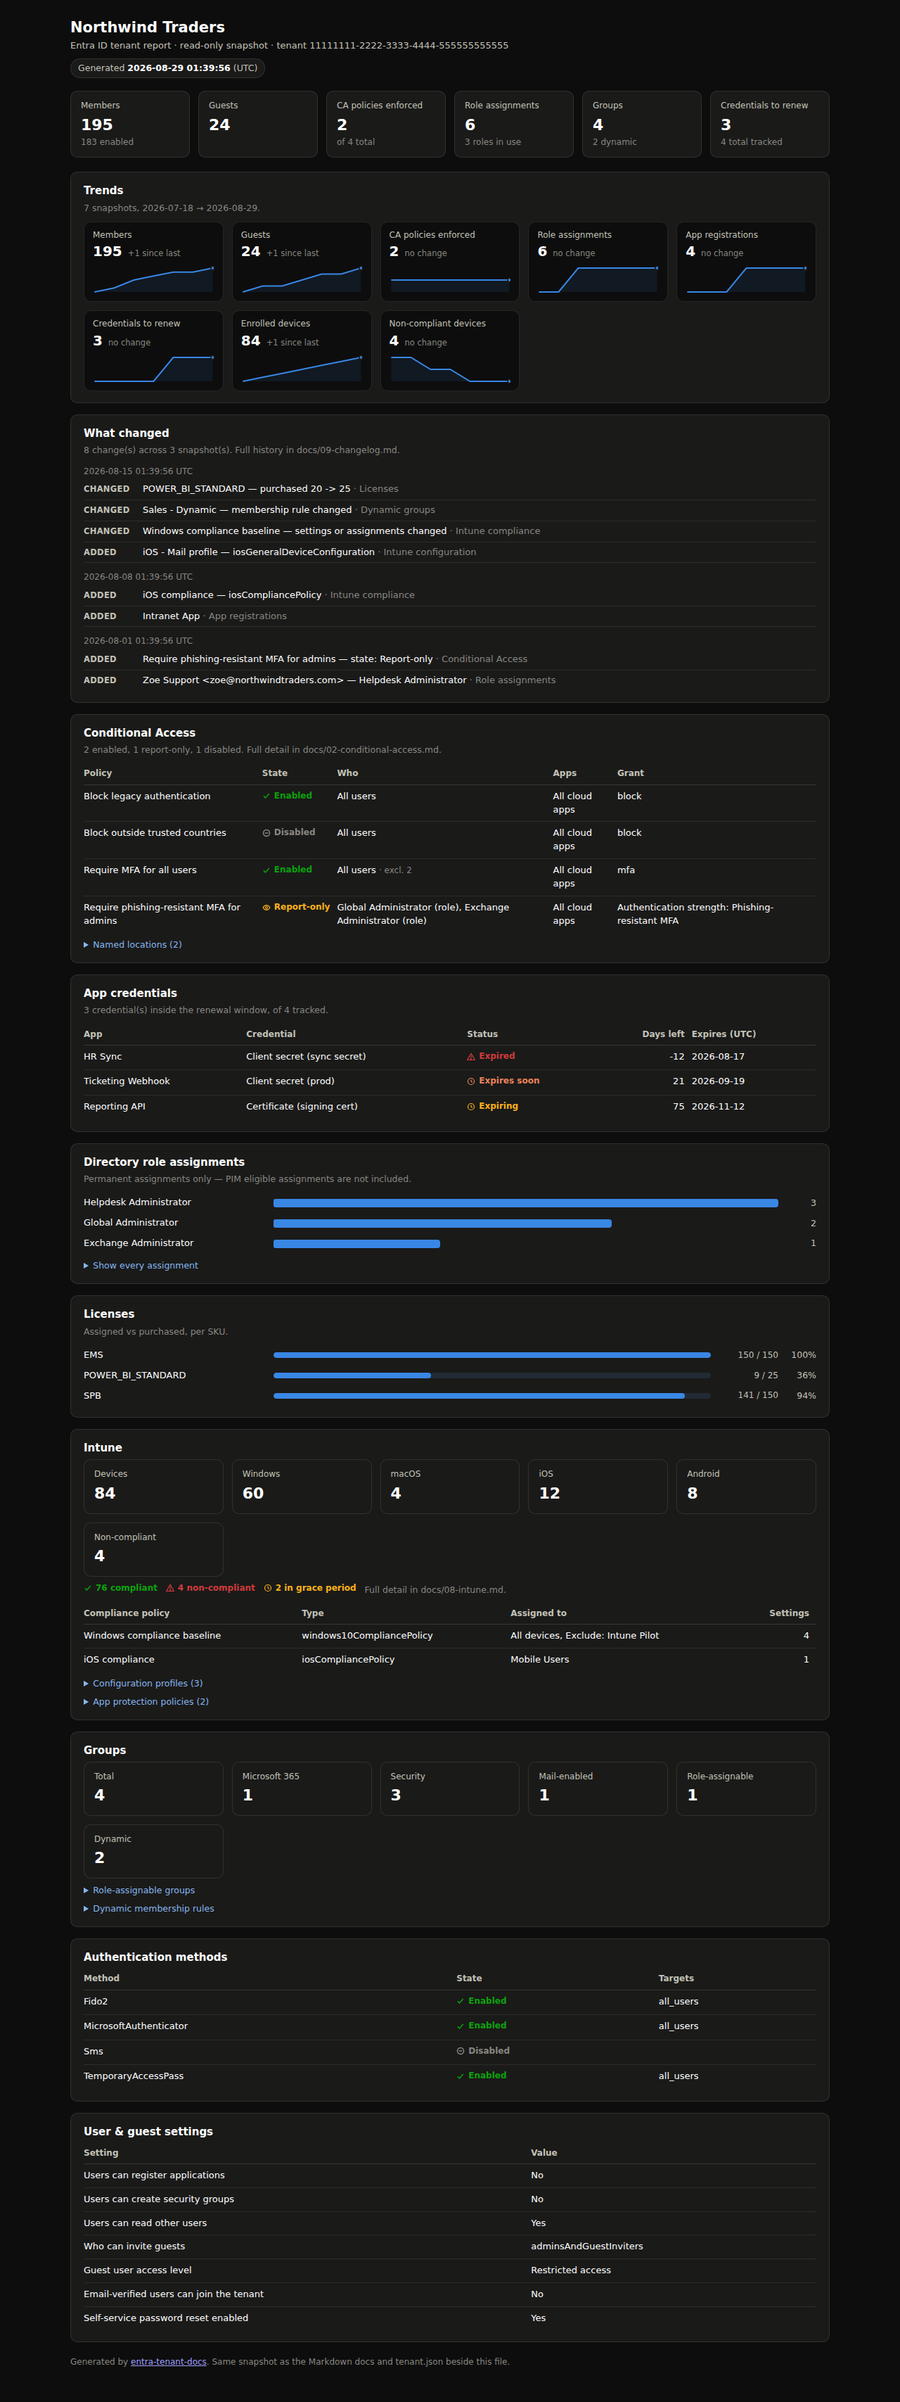
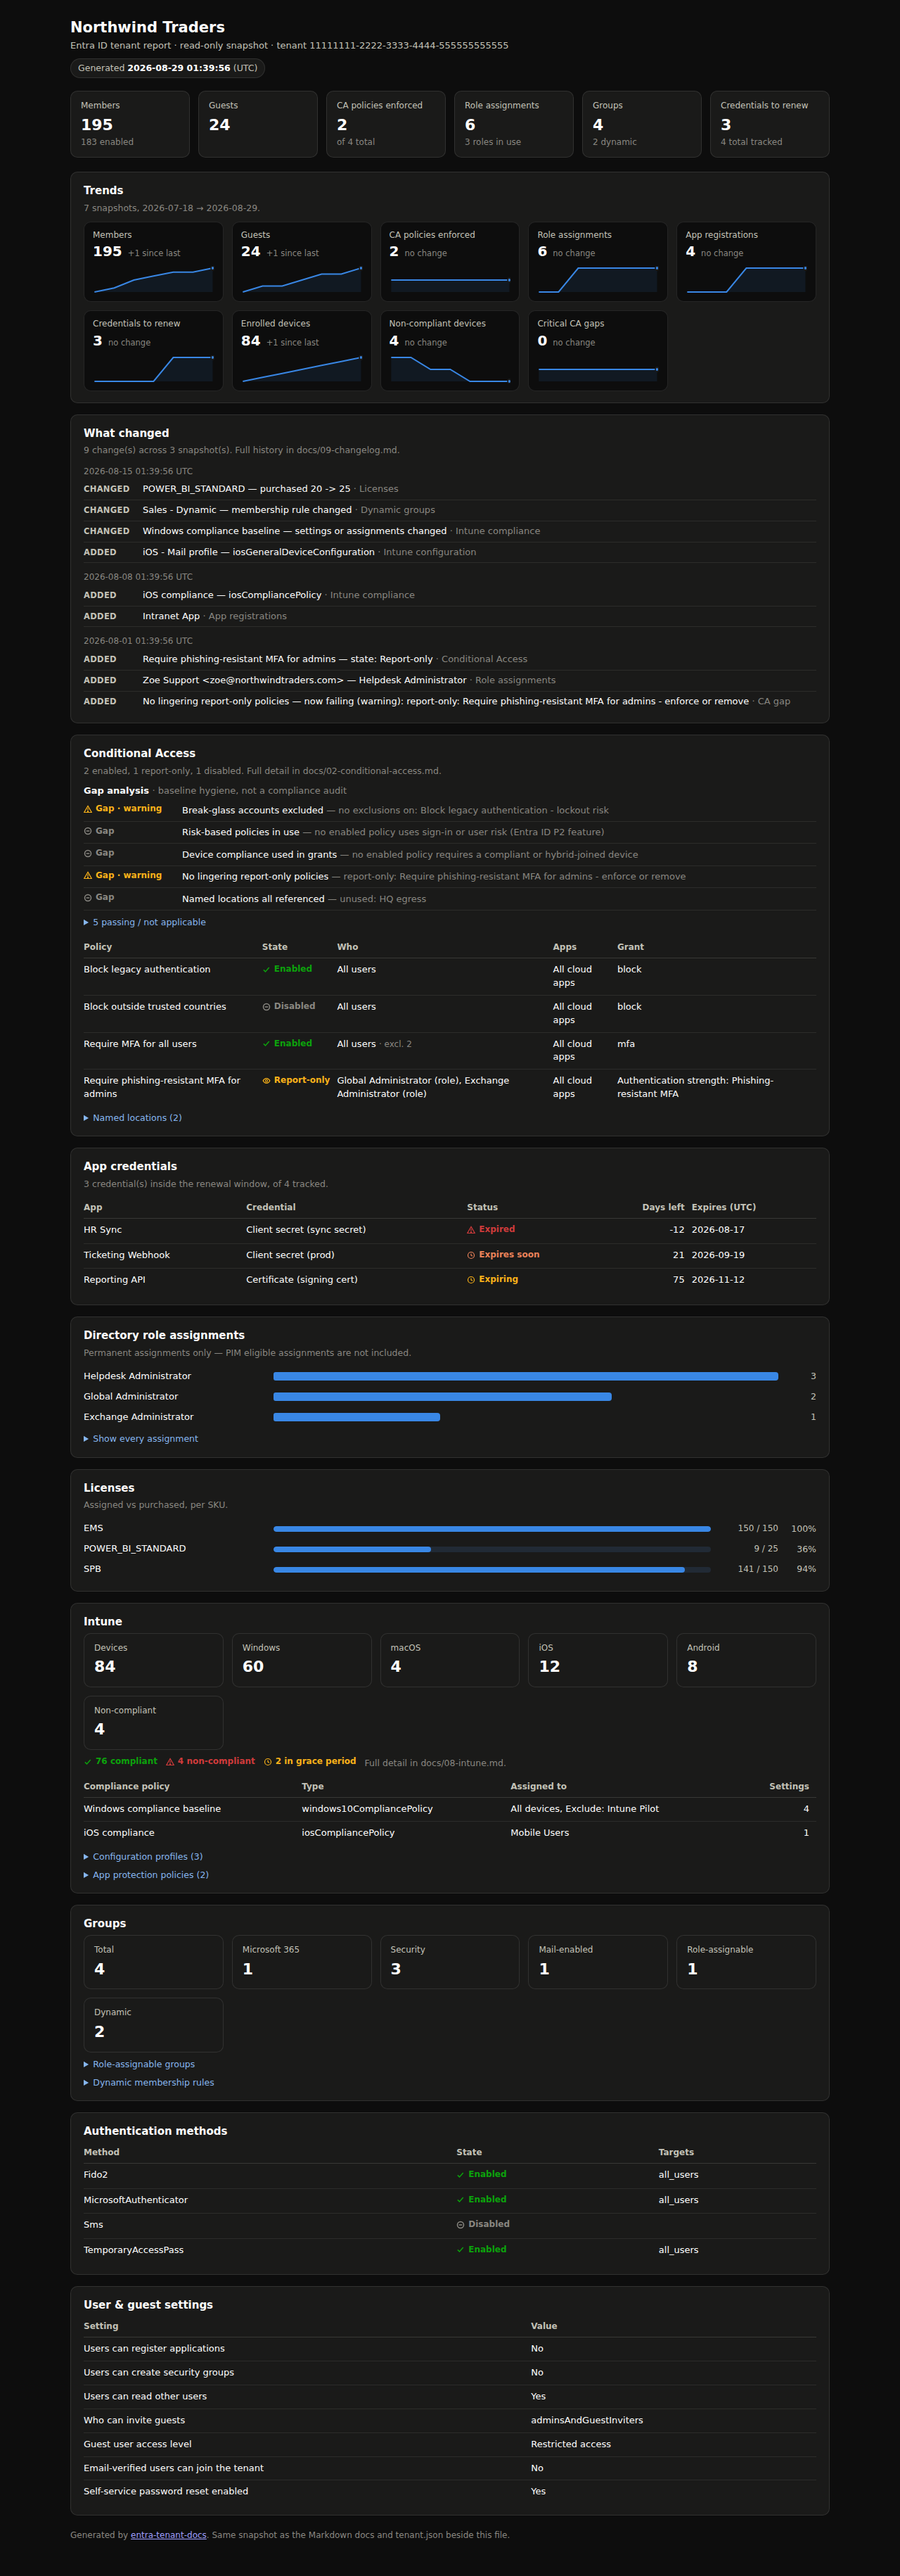
Add CA gap analysis: 10 baseline checks, gap trend, changelog transitions

diff --git a/README.md b/README.md
@@ -79,7 +79,7 @@ One thing interactive runs hide: a scheduled task can't answer a sign-in prompt.
 ## What gets documented
 
 1. **Tenant** — org info, verified domains, license SKUs (purchased/assigned/available)
-2. **Conditional Access** — every policy rendered readable (users, groups, roles, apps, platforms, locations, client apps, risk, grant and session controls — GUIDs resolved to names), plus named locations
+2. **Conditional Access** — every policy rendered readable (users, groups, roles, apps, platforms, locations, client apps, risk, grant and session controls — GUIDs resolved to names), named locations, and a **10-check gap analysis**: MFA for all users, legacy auth blocked, admin MFA coverage, CA-vs-security-defaults, break-glass exclusions, guest coverage, risk-based policies, device-based grants, lingering report-only policies, unused named locations. Gap open/close transitions land in the change log — so a posture regression fires the Teams alert
 3. **Directory roles** — permanent assignments per role
 4. **Groups** — counts by type, role-assignable groups, every dynamic membership rule verbatim
 5. **Authentication methods policy** — which methods are enabled, for whom
@@ -101,13 +101,13 @@ If you need backup/restore or config enforcement, use those. If you need *curren
 - Tested for syntax and structure against mocked Graph data; **not yet run against a production tenant** — dev tenant first, as with anything that touches Graph.
 - **PIM eligible assignments are not included** — the roles section reads permanent assignments only. Group-based role assignments are listed as the group, not expanded to members.
 - Secret *values* never appear anywhere — Graph doesn't return them; only credential names and expiry dates are documented.
+- The CA gap checks are **opinionated baseline hygiene, not a compliance audit** — they encode common guidance (require MFA broadly, block legacy auth, keep break-glass exclusions), and a well-run tenant can still have legitimate reasons to differ.
 - Coverage is the identity plane plus Intune's v1.0 surface. Exchange, SharePoint, and Teams settings live behind different APIs and are on the roadmap, not in the script.
 - **Settings catalog policies are not documented** — that Intune API is still beta-only in Microsoft Graph, and this tool sticks to v1.0. The classic compliance policies and configuration profiles are covered.
 
 ## Roadmap
 
 - Intune settings catalog policies (when the API reaches Graph v1.0)
-- Conditional Access gap analysis (see also the planned CA analyzer)
 - `-Anonymize` switch for sharing output with consultants
 
 ## Related tools
